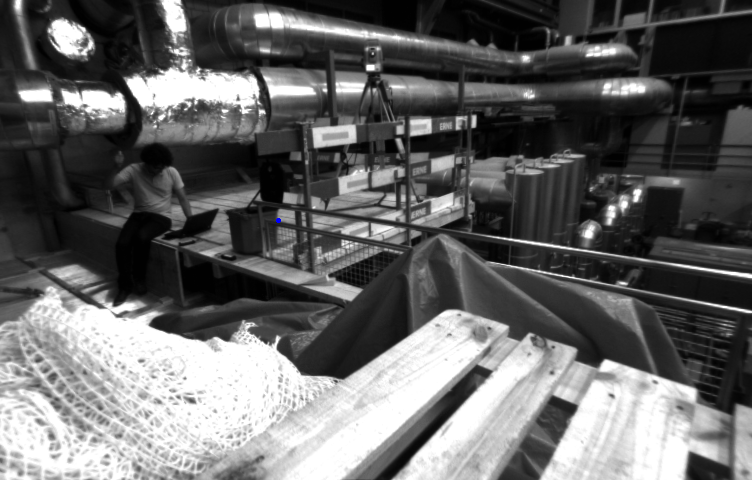
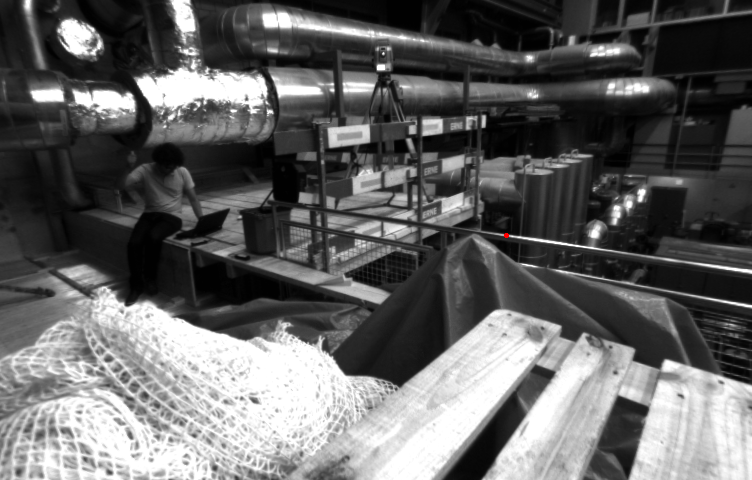
left

diff --git a/src/Frame.cc b/src/Frame.cc
@@ -85,8 +85,8 @@ Frame::Frame(const cv::Mat &imLeft, const cv::Mat &imRight, const double &timeSt
 #ifdef DRAW_KEYPOINTS
 
     cv::Mat show = draw_key_point(imLeft, imRight, mvKeys, mvKeysRight);
-    cv::imshow("show", show);
-    cv::waitKey();
+//    cv::imshow("show", show);
+//    cv::waitKey();
 
 #endif
 
@@ -505,9 +505,9 @@ void Frame::ComputeStereoMatches()
         const float r = 2.0f*mvScaleFactors[mvKeysRight[iR].octave];
 
         cv::circle(m_image_Right_BGR,kp.pt,1,cv::Scalar(255,0,0),2);
-        cv::imshow("m_image_Right_BGR", m_image_Right_BGR);
-        cv::imwrite("/home/q/orb2_xiaoqiuslam/tmp/" + to_string(iR) + ".png",m_image_Right_BGR);
-        cv::waitKey();
+//        cv::imshow("m_image_Right_BGR", m_image_Right_BGR);
+//        cv::imwrite("/home/q/orb2_xiaoqiuslam/tmp/" + to_string(iR) + ".png",m_image_Right_BGR);
+//        cv::waitKey();
 
         const int minr = floor(kpY-r);
         const int maxr = ceil(kpY+r);
@@ -516,15 +516,17 @@ void Frame::ComputeStereoMatches()
         // x 向右 y向下 原点在左上
         for(int yi=minr;yi<=maxr;yi++){
             vRowIndices[yi].push_back(iR);
-            cv::circle(m_image_Right_BGR,cv::Point2f(kp.pt.x, maxr),1,cv::Scalar(0,0,255),2);
-            cv::imshow("m_image_Right_BGR", m_image_Right_BGR);
-            cv::imwrite("/home/q/orb2_xiaoqiuslam/tmp/" + to_string(iR) + "_" + to_string(yi) + ".png",m_image_Right_BGR);
-            cv::waitKey();
+            cv::circle(m_image_Right_BGR,cv::Point2f(kp.pt.x, maxr),1,cv::Scalar(0,255,0),2);
+//            cv::imshow("m_image_Right_BGR", m_image_Right_BGR);
+//            cv::imwrite("/home/q/orb2_xiaoqiuslam/tmp/" + to_string(iR) + "_" + to_string(yi) + ".png",m_image_Right_BGR);
+//            cv::waitKey();
         }
         ir = iR;
     }
 
     cv::imwrite("/home/q/orb2_xiaoqiuslam/tmp/" + to_string(ir) + ".png",m_image_Right_BGR);
+//    cv::imshow("m_image_Right_BGR", m_image_Right_BGR);
+//    cv::waitKey();
 
     // Set limits for search
     const float minZ = mb;
@@ -542,11 +544,10 @@ void Frame::ComputeStereoMatches()
         const float &vL = kpL.pt.y;
         const float &uL = kpL.pt.x;
 
-        cv::rectangle(m_image_Left_BGR,cv::Point2f(kpL.pt.x-5, kpL.pt.y-5),cv::Point2f(kpL.pt.x+5, kpL.pt.y+5),cv::Scalar(100,0,0));
-        cv::circle(m_image_Left_BGR,mvKeys[iL].pt,2,cv::Scalar(100,0,0),-1);
-//        cv::imshow("m_image_Left_BGR", m_image_Left_BGR);
-        std::cout << "iL " << iL << " uL " << kpL.pt.x << " vL " << kpL.pt.y << std::endl;
-//        cv::imwrite("/home/q/orb2_xiaoqiuslam/tmp/" + to_string(iL) + ".png",m_image_Left_BGR);
+        cv::circle(m_image_Left_BGR,mvKeys[iL].pt,1,cv::Scalar(0,0,255),2);
+        cv::imshow("m_image_Left_BGR", m_image_Left_BGR);
+        cv::waitKey();
+        cv::imwrite("/home/q/orb2_xiaoqiuslam/tmp/" + to_string(iL) + ".png",m_image_Left_BGR);
 
         const vector<size_t> &vCandidates = vRowIndices[vL];
 
@@ -582,10 +583,12 @@ void Frame::ComputeStereoMatches()
             pt1.y=kpR.pt.y-5;
             pt2.x=kpR.pt.x+5;
             pt2.y=kpR.pt.y+5;
-            cv::rectangle(m_image_Right_BGR,pt1,pt2,cv::Scalar(0,100,0));
-            cv::circle(m_image_Right_BGR,mvKeysRight[iR].pt,2,cv::Scalar(0,100,0),-1);
-//            cv::imshow("m_image_Right_BGR", m_image_Right_BGR);
-//            cv::imwrite("/home/q/orb2_xiaoqiuslam/tmp/" + to_string(iC) + "m_image_Right_BGR.png",m_image_Right_BGR);
+            cv::rectangle(m_image_Right_BGR,pt1,pt2,cv::Scalar(0,0,100));
+            cv::circle(m_image_Right_BGR,kpR.pt,1,cv::Scalar(0,0,100),2);
+            cv::imshow("m_image_Right_BGR", m_image_Right_BGR);
+            cv::waitKey();
+            cv::imwrite("/home/q/orb2_xiaoqiuslam/tmp/" + to_string(iC) + "_m_image_Right_BGR.png",m_image_Right_BGR);
+
 
             const float &uR = kpR.pt.x;
 
